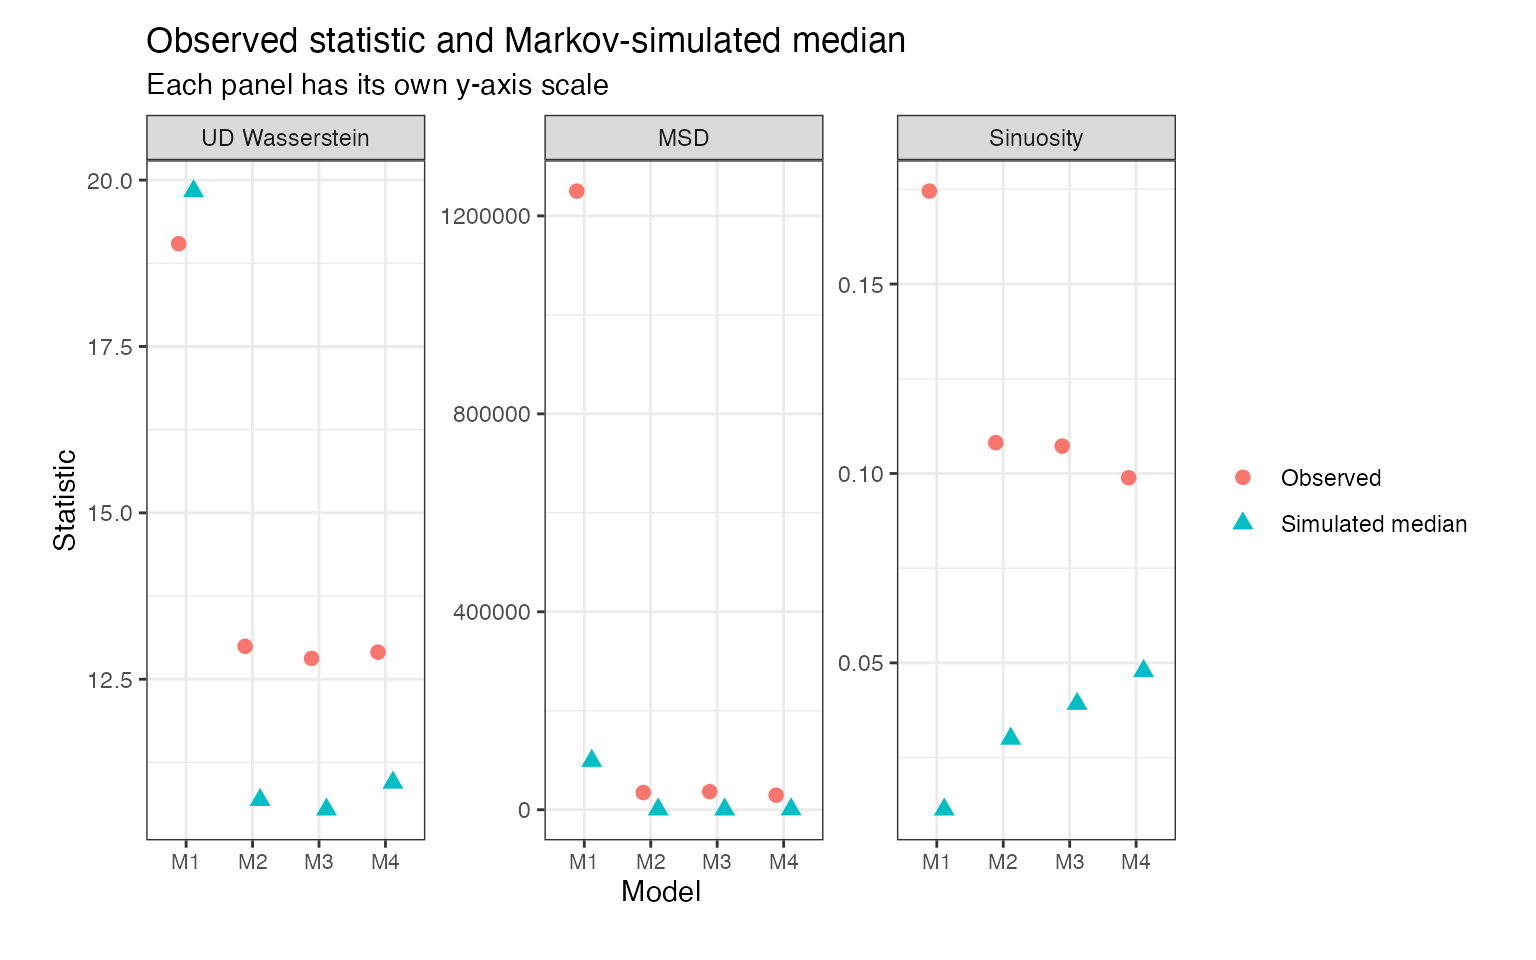
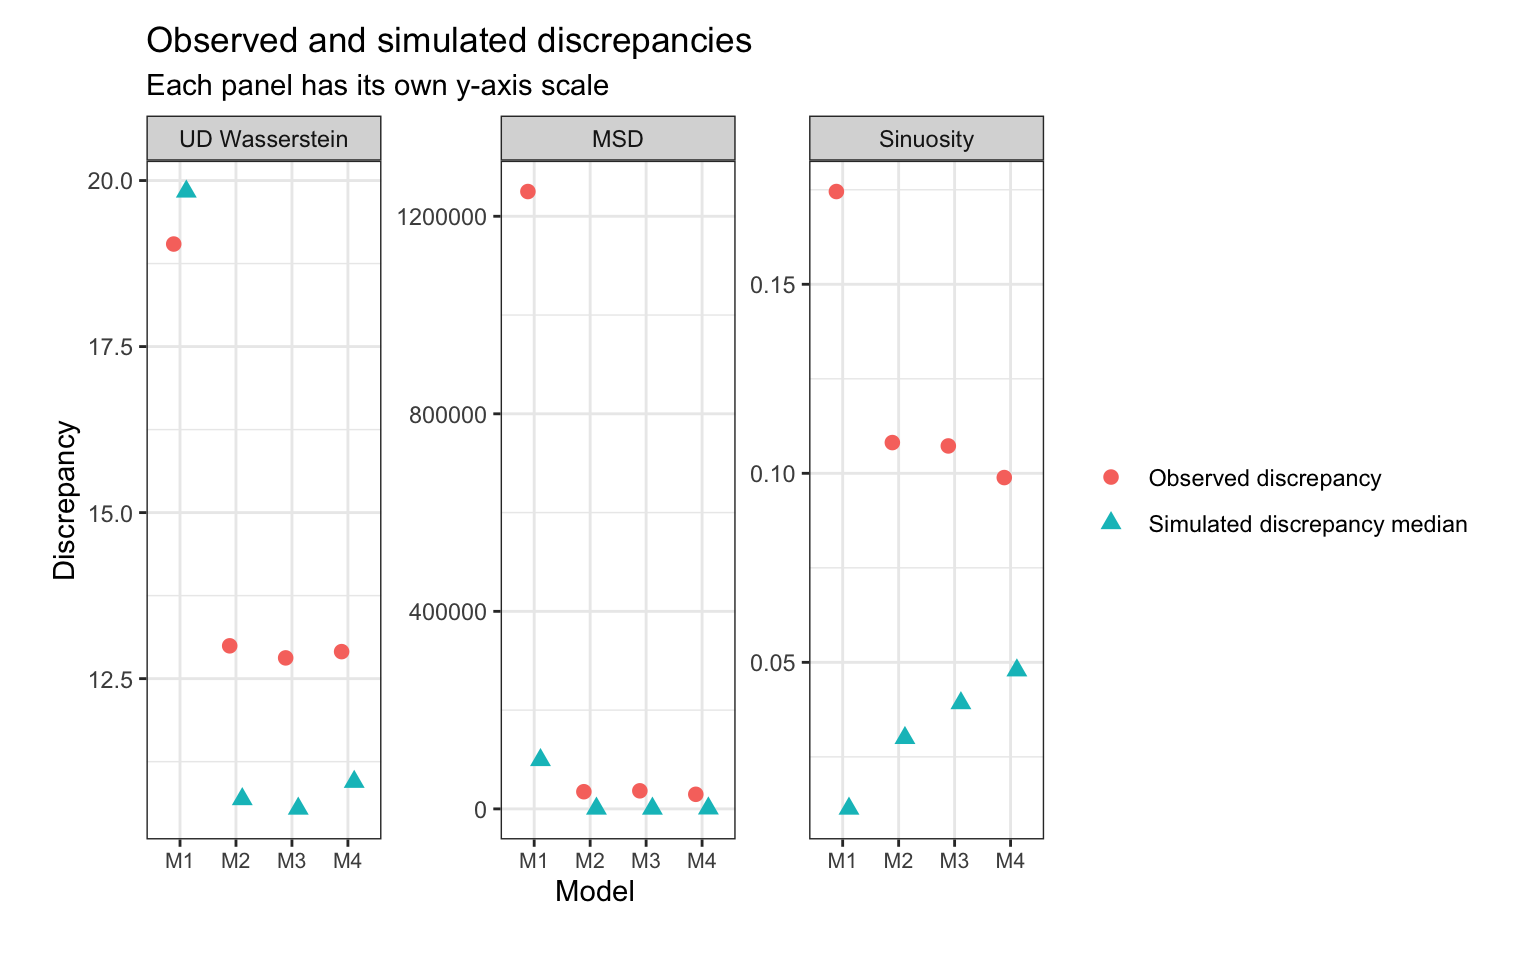
Update vignette interpretation and republish docs

diff --git a/docs/articles/zebra-model-comparison.html b/docs/articles/zebra-model-comparison.html
@@ -59,14 +59,14 @@
   <main id="main" class="col-md-9"><div class="page-header">
 
       <h1>Zebra model comparison with Markov generation</h1>
-
-
+            
+      
       <small class="dont-index">Source: <a href="https://github.com/AurelienNicosiaULaval/HMMSSFGenerativeRepair/blob/HEAD/vignettes/zebra-model-comparison.Rmd" class="external-link"><code>vignettes/zebra-model-comparison.Rmd</code></a></small>
       <div class="d-none name"><code>zebra-model-comparison.Rmd</code></div>
     </div>
 
-
-
+    
+    
 <p>This article describes a zebra model-comparison workflow. The
 simulation strategy is fixed to <code>markov</code> for every fitted
 model. This means that each candidate model is evaluated through its
@@ -130,6 +130,17 @@ log-likelihood is retained.</p>
 one-state SSF case: the latent state is always 1, so state diagnostics
 such as switching rate and transition counts are mathematically
 trivial.</p>
+<p>The quantities shown in both trajectory-level and state-level tables
+are discrepancy statistics. The “Observed” column is the discrepancy
+between each observed statistic and the model null reference, while
+simulated values are summaries of the same discrepancy under Markov
+simulation from each fitted model. Smaller discrepancies indicate closer
+agreement to the model.</p>
+<p>In the embedded run, Monte Carlo p-values are based on
+<code>n_sims = 99</code> simulations. The rank-test resolution is
+therefore <code>1 / (99 + 1) = 0.01</code>, so very small numeric
+differences in p-values should be interpreted with that grid in
+mind.</p>
 <div class="section level2">
 <h2 id="embedded-results">Embedded results<a class="anchor" aria-label="anchor" href="#embedded-results"></a>
 </h2>
@@ -360,30 +371,30 @@ model-generated trajectories.</p>
 <span>  col.names <span class="op">=</span> <span class="fu"><a href="https://rdrr.io/r/base/c.html" class="external-link">c</a></span><span class="op">(</span></span>
 <span>    <span class="st">"Model"</span>,</span>
 <span>    <span class="st">"Diagnostic"</span>,</span>
-<span>    <span class="st">"Observed"</span>,</span>
-<span>    <span class="st">"Simulated median"</span>,</span>
-<span>    <span class="st">"Simulated q025"</span>,</span>
-<span>    <span class="st">"Simulated q975"</span>,</span>
+<span>    <span class="st">"Observed discrepancy"</span>,</span>
+<span>    <span class="st">"Simulated discrepancy median"</span>,</span>
+<span>    <span class="st">"Simulated discrepancy q025"</span>,</span>
+<span>    <span class="st">"Simulated discrepancy q975"</span>,</span>
 <span>    <span class="st">"Monte Carlo p-value"</span></span>
 <span>  <span class="op">)</span></span>
 <span><span class="op">)</span></span></code></pre></div>
 <table class="table">
 <colgroup>
-<col width="21%">
+<col width="15%">
+<col width="9%">
 <col width="12%">
-<col width="10%">
-<col width="14%">
-<col width="12%">
-<col width="12%">
+<col width="17%">
 <col width="16%">
+<col width="16%">
+<col width="12%">
 </colgroup>
 <thead><tr class="header">
 <th align="left">Model</th>
 <th align="left">Diagnostic</th>
-<th align="right">Observed</th>
-<th align="right">Simulated median</th>
-<th align="right">Simulated q025</th>
-<th align="right">Simulated q975</th>
+<th align="right">Observed discrepancy</th>
+<th align="right">Simulated discrepancy median</th>
+<th align="right">Simulated discrepancy q025</th>
+<th align="right">Simulated discrepancy q975</th>
 <th align="right">Monte Carlo p-value</th>
 </tr></thead>
 <tbody>
@@ -525,13 +536,13 @@ model-generated trajectories.</p>
 <span>  <span class="fu"><a href="https://rdrr.io/r/base/data.frame.html" class="external-link">data.frame</a></span><span class="op">(</span></span>
 <span>    model_label <span class="op">=</span> <span class="va">global_diagnostics</span><span class="op">$</span><span class="va">model_label</span>,</span>
 <span>    diagnostic_label <span class="op">=</span> <span class="va">global_diagnostics</span><span class="op">$</span><span class="va">diagnostic_label</span>,</span>
-<span>    source <span class="op">=</span> <span class="st">"Observed"</span>,</span>
+<span>    source <span class="op">=</span> <span class="st">"Observed discrepancy"</span>,</span>
 <span>    value <span class="op">=</span> <span class="va">global_diagnostics</span><span class="op">$</span><span class="va">observed_statistic</span></span>
 <span>  <span class="op">)</span>,</span>
 <span>  <span class="fu"><a href="https://rdrr.io/r/base/data.frame.html" class="external-link">data.frame</a></span><span class="op">(</span></span>
 <span>    model_label <span class="op">=</span> <span class="va">global_diagnostics</span><span class="op">$</span><span class="va">model_label</span>,</span>
 <span>    diagnostic_label <span class="op">=</span> <span class="va">global_diagnostics</span><span class="op">$</span><span class="va">diagnostic_label</span>,</span>
-<span>    source <span class="op">=</span> <span class="st">"Simulated median"</span>,</span>
+<span>    source <span class="op">=</span> <span class="st">"Simulated discrepancy median"</span>,</span>
 <span>    value <span class="op">=</span> <span class="va">global_diagnostics</span><span class="op">$</span><span class="va">simulated_median</span></span>
 <span>  <span class="op">)</span></span>
 <span><span class="op">)</span></span>
@@ -553,10 +564,10 @@ model-generated trajectories.</p>
 <span>  <span class="op">)</span> <span class="op">+</span></span>
 <span>  <span class="fu"><a href="https://ggplot2.tidyverse.org/reference/labs.html" class="external-link">labs</a></span><span class="op">(</span></span>
 <span>    x <span class="op">=</span> <span class="st">"Model"</span>,</span>
-<span>    y <span class="op">=</span> <span class="st">"Statistic"</span>,</span>
+<span>    y <span class="op">=</span> <span class="st">"Discrepancy"</span>,</span>
 <span>    color <span class="op">=</span> <span class="cn">NULL</span>,</span>
 <span>    shape <span class="op">=</span> <span class="cn">NULL</span>,</span>
-<span>    title <span class="op">=</span> <span class="st">"Observed statistic and Markov-simulated median"</span>,</span>
+<span>    title <span class="op">=</span> <span class="st">"Observed and simulated discrepancies"</span>,</span>
 <span>    subtitle <span class="op">=</span> <span class="st">"Each panel has its own y-axis scale"</span></span>
 <span>  <span class="op">)</span></span></code></pre></div>
 <p><img src="zebra-model-comparison_files/figure-html/observed-simulated-summary-1.png" alt="" width="768"></p>
@@ -598,30 +609,30 @@ handled.</p>
 <span>    <span class="st">"Model"</span>,</span>
 <span>    <span class="st">"Diagnostic"</span>,</span>
 <span>    <span class="st">"State"</span>,</span>
-<span>    <span class="st">"Observed"</span>,</span>
-<span>    <span class="st">"Simulated median"</span>,</span>
+<span>    <span class="st">"Observed discrepancy"</span>,</span>
+<span>    <span class="st">"Simulated discrepancy median"</span>,</span>
 <span>    <span class="st">"Monte Carlo p-value"</span>,</span>
 <span>    <span class="st">"Warning"</span></span>
 <span>  <span class="op">)</span></span>
 <span><span class="op">)</span></span></code></pre></div>
 <table class="table">
 <colgroup>
-<col width="2%">
-<col width="16%">
-<col width="15%">
-<col width="4%">
-<col width="6%">
-<col width="11%">
+<col width="1%">
+<col width="14%">
 <col width="13%">
-<col width="30%">
+<col width="3%">
+<col width="12%">
+<col width="16%">
+<col width="11%">
+<col width="26%">
 </colgroup>
 <thead><tr class="header">
 <th align="left"></th>
 <th align="left">Model</th>
 <th align="left">Diagnostic</th>
 <th align="right">State</th>
-<th align="right">Observed</th>
-<th align="right">Simulated median</th>
+<th align="right">Observed discrepancy</th>
+<th align="right">Simulated discrepancy median</th>
 <th align="right">Monte Carlo p-value</th>
 <th align="left">Warning</th>
 </tr></thead>
@@ -1028,14 +1039,26 @@ handled.</p>
 </tr>
 </tbody>
 </table>
+<p>For state diagnostics, the same interpretation rule applies: the
+reported numbers are discrepancy summaries. In two-state fits, state
+occupancy rows can be identical because the two occupancy proportions
+must sum to one and the same absolute discrepancy is reported per state.
+Step length and residence-time entries are based on full distributional
+distances, not raw mean step lengths or mean dwell times. Observed
+trajectories are state-decoded with Viterbi, while simulated
+trajectories use the simulated latent state sequence, so this is a
+comparison on different state-labelling views.</p>
 <p>In this embedded run, no candidate model reproduces every global
-diagnostic. The UD Wasserstein p-values are not extreme, but MSD remains
-extreme for every model. The three-state fixed model gives the largest
-p-value for sinuosity in this run, while the two-state time-dependent
-model is closest to the original zebra transition specification. Because
-the multi-state optimizers report code 1, the comparison should be
-treated as an executable demonstration and a diagnostic screen rather
-than as a final model-selection result.</p>
+diagnostic. A model can appear visually closer on one diagnostic and
+still have a lower Monte Carlo p-value if its simulated null is more
+concentrated for that statistic. This is why discrepancies and p-values
+should be read together. The UD Wasserstein p-values are not extreme,
+but MSD remains extreme for every model. The three-state fixed model
+gives the largest p-value for sinuosity in this run, while the two-state
+time-dependent model is closest to the original zebra transition
+specification. Because the multi-state optimizers report code 1, the
+comparison should be treated as an executable demonstration and a
+diagnostic screen rather than as a final model-selection result.</p>
 </div>
 <div class="section level2">
 <h2 id="data-preparation">Data preparation<a class="anchor" aria-label="anchor" href="#data-preparation"></a>
@@ -1527,6 +1550,13 @@ the original zebra HMM-SSF specification because its transition
 probabilities vary with time of day. The fixed-transition models test
 whether this temporal transition structure is necessary for generative
 realism.</p>
+<p>To assess memory effects in the regime process more directly, a
+direct HSMM extension can be a useful additional simulation study:
+simulate trajectories from an HSMM-SSF with non-geometric dwell times,
+fit a standard HMM-SSF, and check whether state-level residence-time
+discrepancies lose power when the memory structure is misspecified. This
+is a natural step for evaluating whether a non-geometric dwell-time
+model is required.</p>
 </div>
   </main><aside class="col-md-3"><nav id="toc" aria-label="Table of contents"><h2>On this page</h2>
     </nav></aside>

diff --git a/docs/articles/hmmssf-generative-validation.html b/docs/articles/hmmssf-generative-validation.html
@@ -59,14 +59,14 @@
   <main id="main" class="col-md-9"><div class="page-header">
 
       <h1>Generative validation for HMM-SSF models</h1>
-
-
+            
+      
       <small class="dont-index">Source: <a href="https://github.com/AurelienNicosiaULaval/HMMSSFGenerativeRepair/blob/HEAD/vignettes/hmmssf-generative-validation.Rmd" class="external-link"><code>vignettes/hmmssf-generative-validation.Rmd</code></a></small>
       <div class="d-none name"><code>hmmssf-generative-validation.Rmd</code></div>
     </div>
 
-
-
+    
+    
 <p>This vignette introduces the minimal workflow implemented in
 <code>HMMSSFGenerativeRepair</code>. It uses a simulated HMM-SSF-like
 object so that the example can run without empirical animal movement
@@ -256,8 +256,10 @@ that the observed trajectory is atypical under the simulated model.</p>
 <span><span class="co">#&gt; 54     6.000000e-02     0.7</span></span>
 <span><span class="co">#&gt; 57     1.530612e-02     0.1</span></span>
 <span><span class="co">#&gt; 58     8.506802e-02     0.5</span></span></code></pre></div>
-<p>With <code>n_sims = 99</code>, the smallest possible Monte Carlo
-p-value is <code>0.01</code>, because the rank p-value uses the
+<p>For this example, <code>n_sims = 9</code>, so the smallest possible
+Monte Carlo p-value is <code>0.1</code>. In a general run with
+<code>n_sims = N</code>, the smallest possible p-value is
+<code>1 / (N + 1)</code>, because the rank p-value uses the
 finite-simulation correction</p>
 <pre class="text"><code>(number of simulated statistics at least as extreme as observed + 1) /
   (number of simulations + 1)</code></pre>

diff --git a/docs/articles/diagnostic-criteria-summary.html b/docs/articles/diagnostic-criteria-summary.html
@@ -59,14 +59,14 @@
   <main id="main" class="col-md-9"><div class="page-header">
 
       <h1>Diagnostic criteria summary</h1>
-
-
+            
+      
       <small class="dont-index">Source: <a href="https://github.com/AurelienNicosiaULaval/HMMSSFGenerativeRepair/blob/HEAD/vignettes/diagnostic-criteria-summary.Rmd" class="external-link"><code>vignettes/diagnostic-criteria-summary.Rmd</code></a></small>
       <div class="d-none name"><code>diagnostic-criteria-summary.Rmd</code></div>
     </div>
 
-
-
+    
+    
 <p>This short note gives an executive explanation of the diagnostics
 used in the HMM-SSF generative validation workflow. The goal is not to
 replace the code documentation, but to make the output tables easier to
@@ -203,6 +203,9 @@ straight or unusually tortuous relative to simulated paths.</p>
 <pre class="text"><code>mean absolute difference across all states</code></pre>
 <p>Interpretation: a small p-value means the fitted generative process
 spends an unrealistic amount of time in one or more states.</p>
+<p>In a two-state model, the two per-state occupancy discrepancy values
+can be numerically identical because state proportions are complementary
+and the same absolute discrepancy is computed for each state.</p>
 </div>
 <div class="section level3">
 <h3 id="state_residence_time">

diff --git a/docs/lightswitch.js b/docs/lightswitch.js
@@ -35,7 +35,7 @@ function bsSetupThemeToggle () {
     document.querySelectorAll('[data-bs-theme-value]').forEach(element => {
       const buttonTheme = element.getAttribute('data-bs-theme-value')
       const isActive = buttonTheme == theme
-
+      
       element.classList.toggle('active', isActive)
       element.setAttribute('aria-pressed', isActive)
 

diff --git a/docs/LICENSE-text.html b/docs/LICENSE-text.html
@@ -60,3 +60,4 @@ COPYRIGHT HOLDER: Aurelien Nicosia
 
 
   </body></html>
+

diff --git a/docs/articles/index.html b/docs/articles/index.html
@@ -66,3 +66,4 @@
 
 
   </body></html>
+

diff --git a/docs/authors.html b/docs/authors.html
@@ -82,3 +82,4 @@ R package version 0.1.0, <a href="https://github.com/AurelienNicosiaULaval/HMMSS
 
 
   </body></html>
+

diff --git a/docs/reference/HMMSSFGenerativeRepair-package.html b/docs/reference/HMMSSFGenerativeRepair-package.html
@@ -73,3 +73,4 @@
 
 
   </body></html>
+

diff --git a/docs/reference/HMMSSFGenerativeRepair.html b/docs/reference/HMMSSFGenerativeRepair.html
@@ -5,3 +5,4 @@
     <link rel="canonical" href="https://aureliennicosiaulaval.github.io/HMMSSFGenerativeRepair/reference/HMMSSFGenerativeRepair-package.html">
   </head>
 </html>
+

diff --git a/docs/reference/as_gmov_hmmssf.html b/docs/reference/as_gmov_hmmssf.html
@@ -106,3 +106,4 @@ it returns clear errors rather than guessing.</p>
 
 
   </body></html>
+

diff --git a/docs/reference/classify_sharpness.html b/docs/reference/classify_sharpness.html
@@ -88,3 +88,4 @@ thresholds. Larger values are less sharp.</p></dd>
 
 
   </body></html>
+

diff --git a/docs/reference/compare_simulation_methods.html b/docs/reference/compare_simulation_methods.html
@@ -80,3 +80,4 @@
 
 
   </body></html>
+